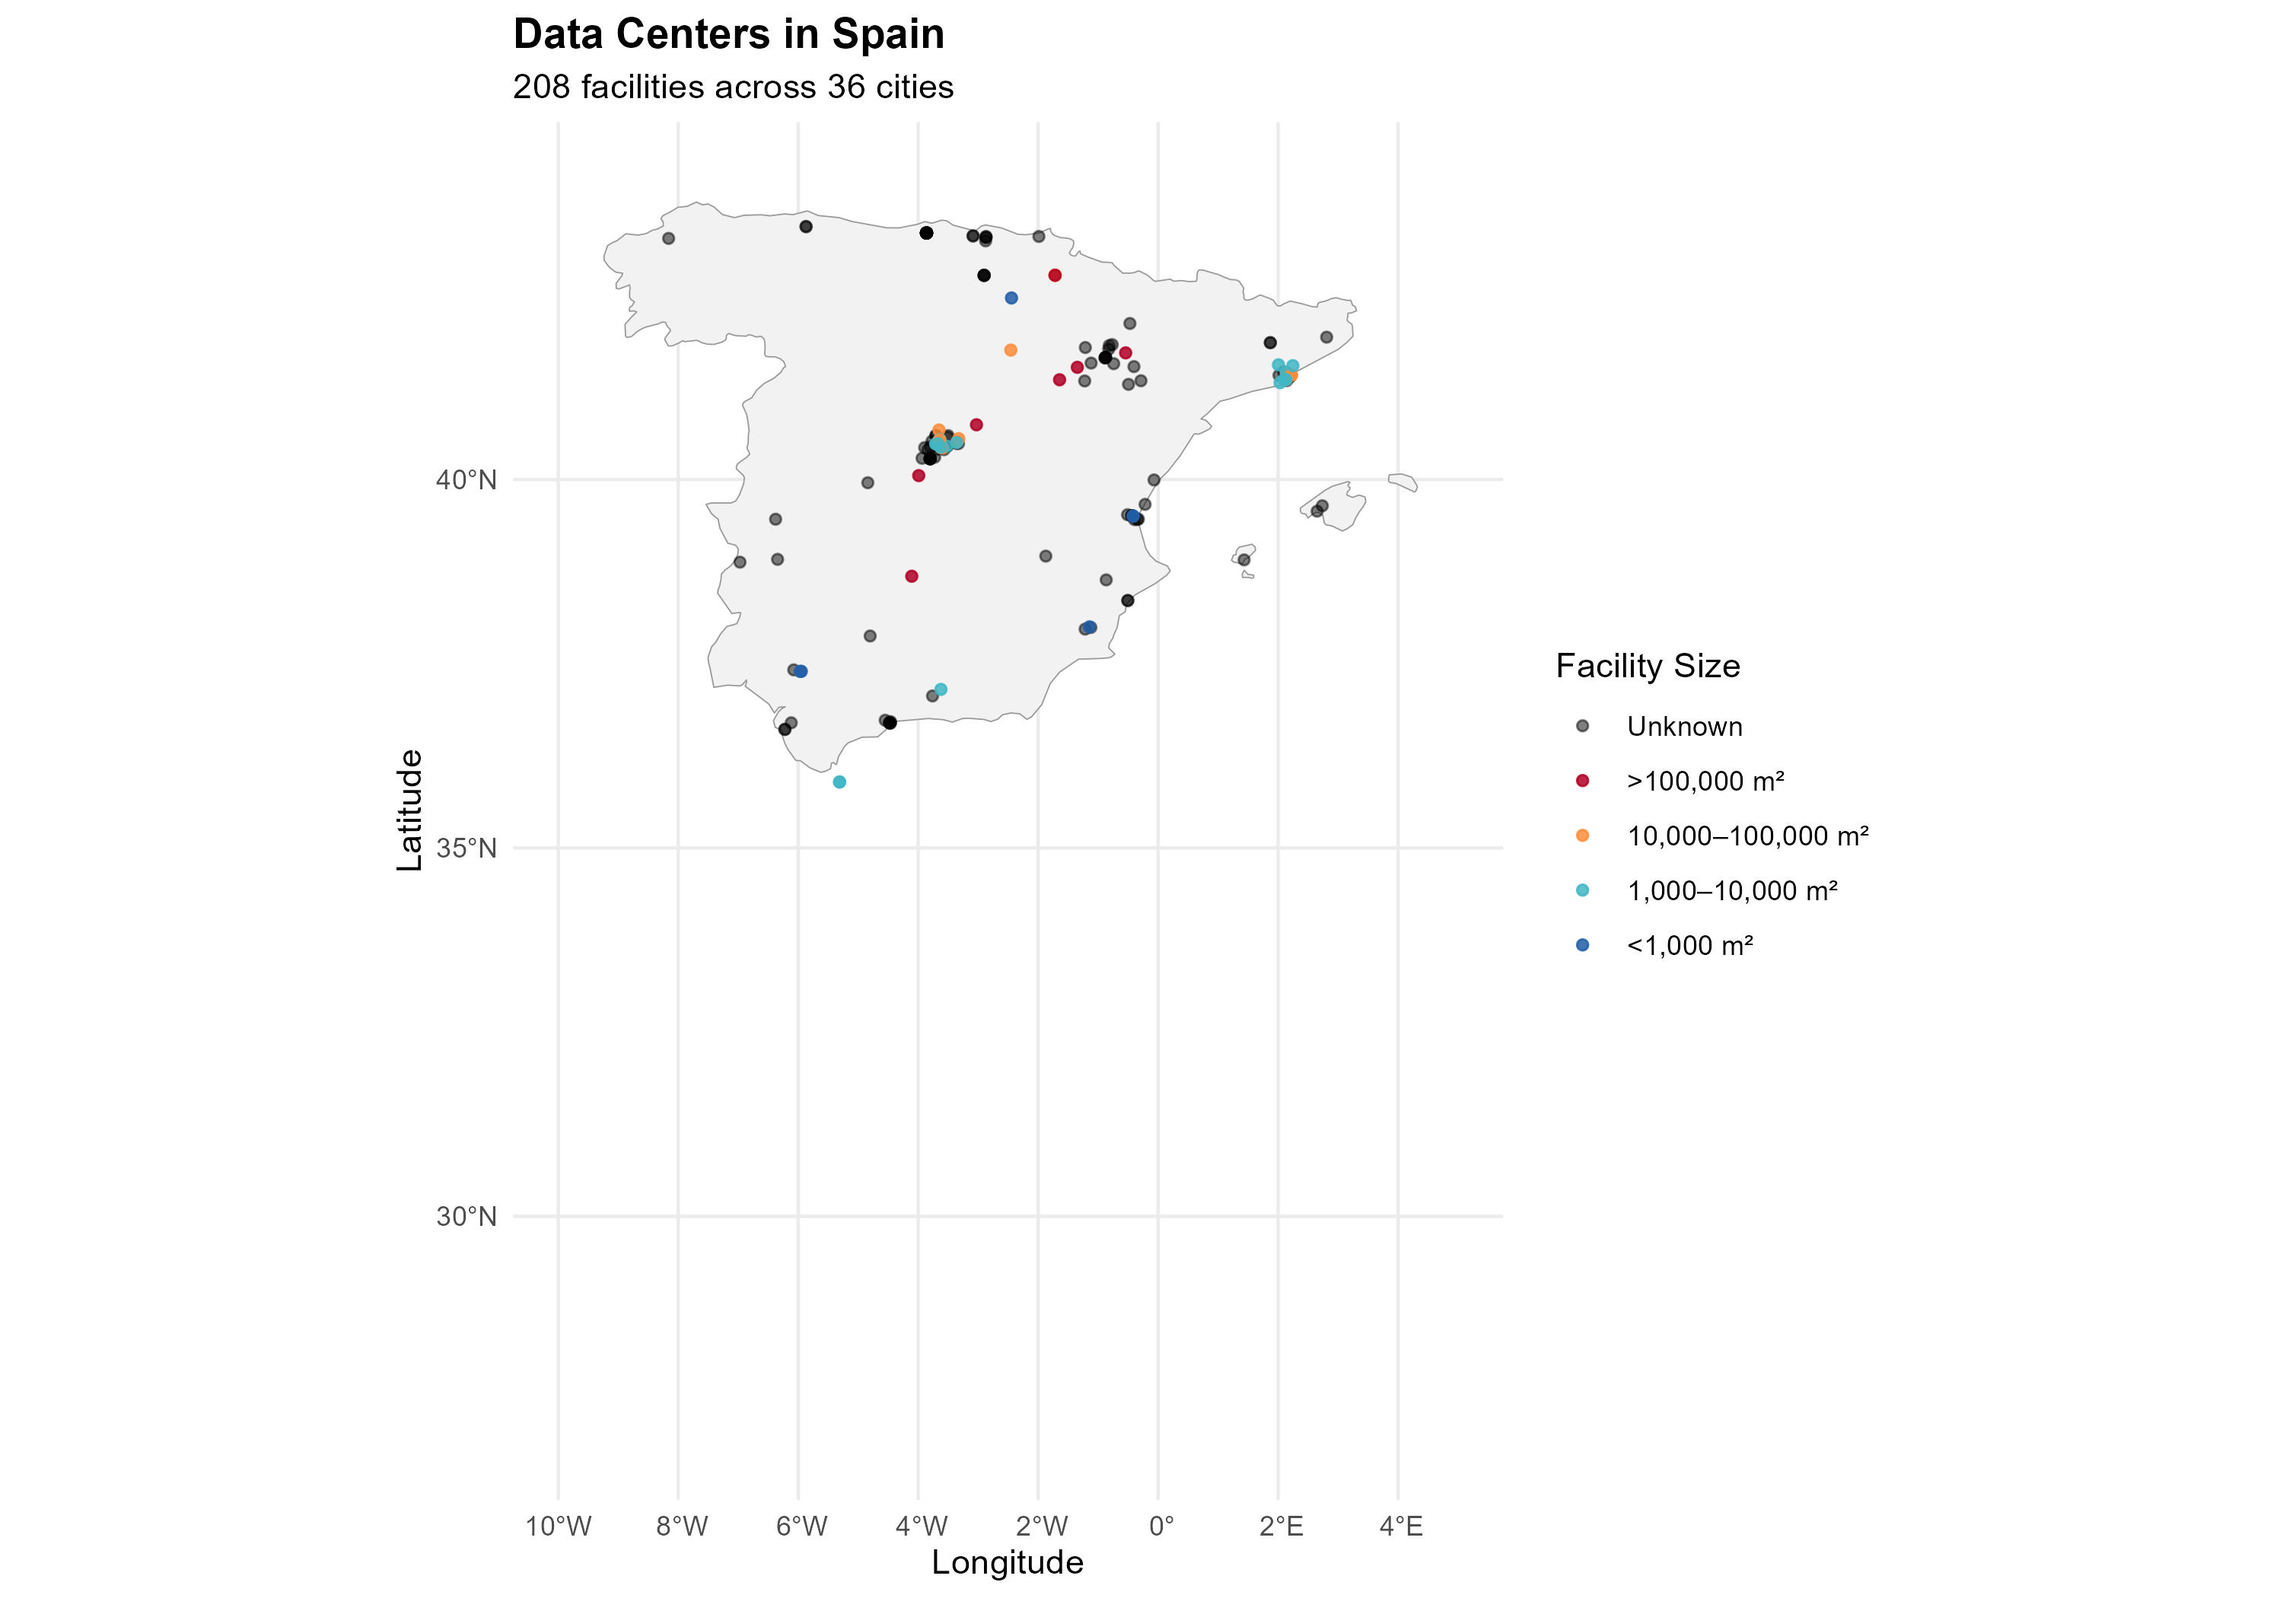
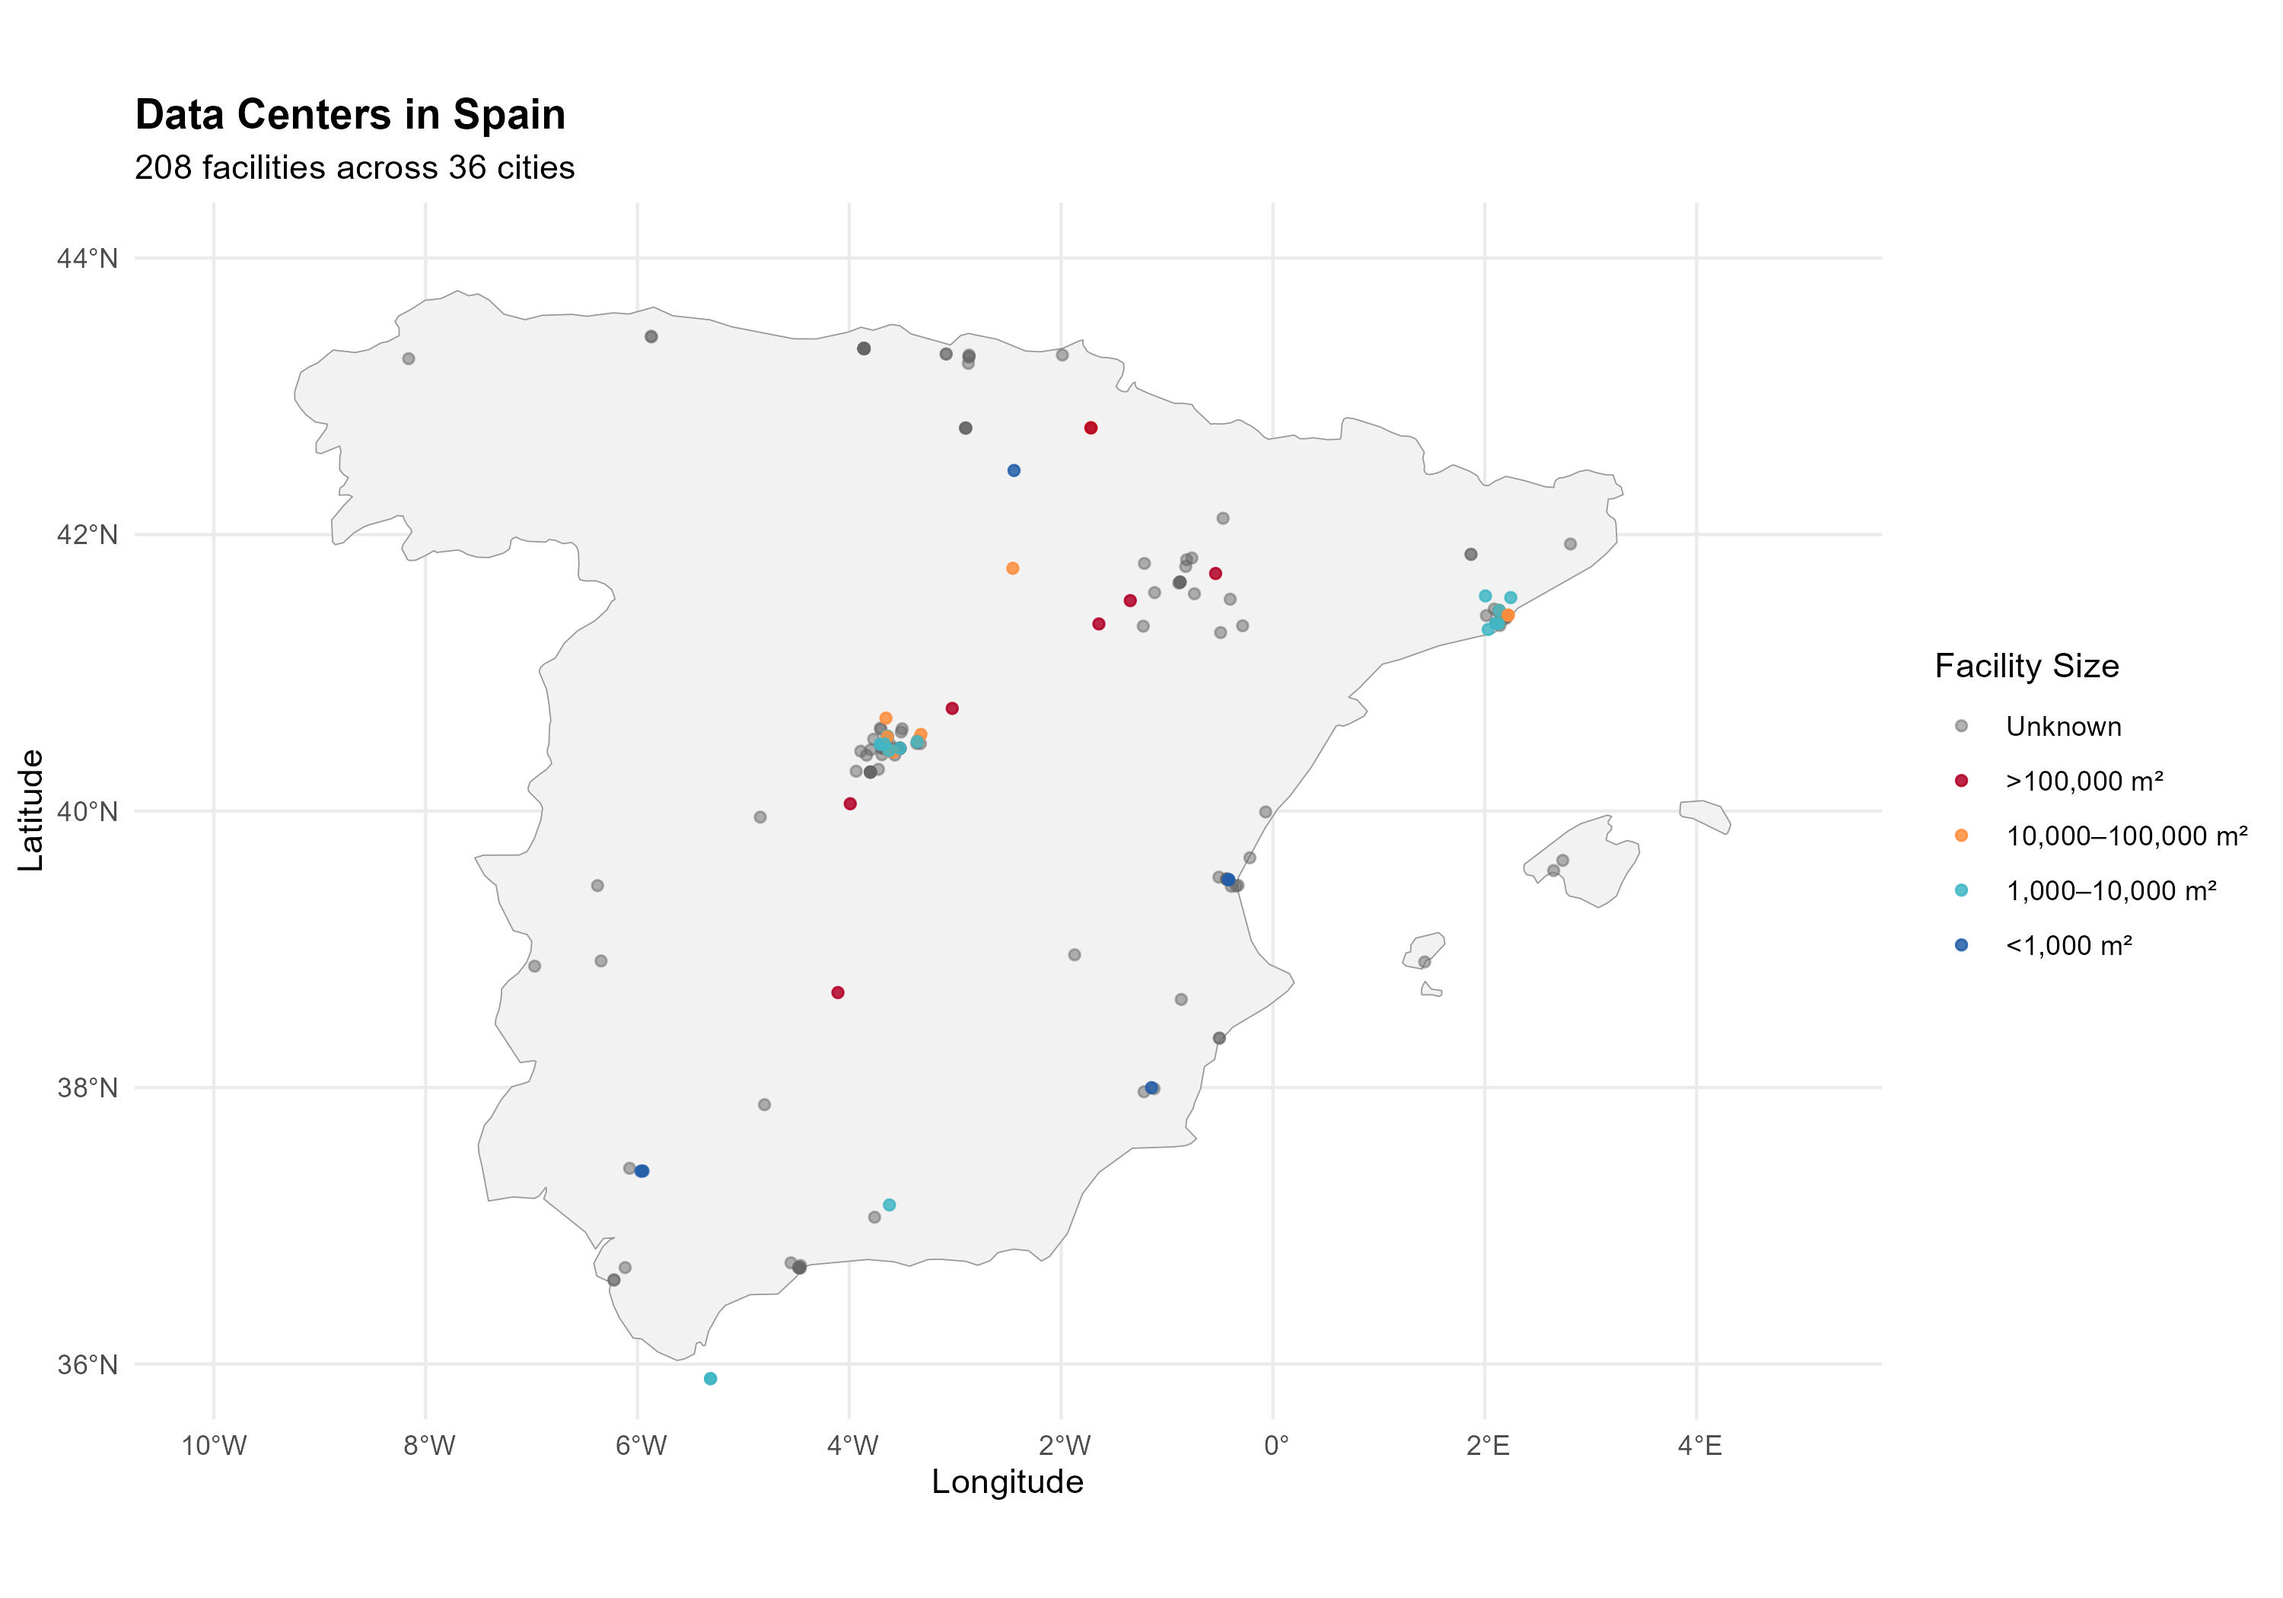
cleaned up r notebook code for data centers and created spain only provinces map

diff --git a/OLD_prism_datacenters.tex b/OLD_prism_datacenters.tex
@@ -1,0 +1,97 @@
+\documentclass[11pt]{article}
+\usepackage[margin=1in]{geometry}
+\usepackage{graphicx}
+\usepackage{hyperref}
+\usepackage{enumitem}
+\setlist{nosep}
+
+\title{OLD Data Centers in Spain: Mapping Existing Facilities and Context}
+\author{}
+\date{March 2026}
+
+\begin{document}
+\maketitle
+
+\section*{Overview}
+This note summarizes the work completed in the R notebook \texttt{DataCenters\_Current\_Map.rmd} and
+aligns it with the broader project context documented in \texttt{dataCenters.ipynb}. The core goal is
+to map existing data centers in Spain and situate them within the provincial geography used for the
+analysis of environmental and infrastructure stress at the NUTS3 (52 provinces) scale.
+
+\section*{Why This Matters (Project Context)}
+The broader research question in \texttt{dataCenters.ipynb} is whether predicted or likely data center
+development in Spain concentrates in provinces already under compound environmental stress
+(water scarcity, heat extremes, and land-use pressure). If high-suitability provinces coincide with
+high-stress provinces, new data center development risks intensifying already strained resources
+such as water for cooling, land footprint, and grid capacity. The provincial (NUTS3) scale is used
+because it is the finest spatial unit with consistent economic and environmental statistics.
+
+\section*{Data Sources and Scraping (from \texttt{dataCenters.ipynb})}
+\begin{itemize}
+  \item \textbf{Directory source:} \texttt{datacentermap.com/spain} is used as the main public directory
+  of data centers in Spain.
+  \item \textbf{Scraping approach:} the Spain index page is crawled to enumerate all region subpages,
+  then each region page is scraped to extract individual facility records (operator, city, region, and
+  available facility metadata).
+  \item \textbf{Geocoding:} facility locations are geocoded using Nominatim (OpenStreetMap) with rate
+  limiting (a 10-second delay between requests).
+  \item \textbf{Outputs:} the notebook writes facility records to \texttt{data/datacentermap\_spain.csv}
+  and \texttt{data/dc\_locations.geojson} (used downstream in the analysis).
+\end{itemize}
+
+\section*{Administrative Base Layer (52 Provinces)}
+The analysis adopts Spain's 52 provinces (NUTS3) as the standard spatial unit. The project notebook
+references GADM v4.1, Level 2 (Spain provinces) as the boundary source and notes that it is the most
+appropriate level for consistent provincial statistics.
+
+\begin{figure}[ht]
+  \centering
+  \fbox{\parbox{0.95\textwidth}{
+    \textbf{Map 1 placeholder: Spain, 52 provinces (NUTS3).}
+    \newline
+    Add the province boundary map here (GADM v4.1 Level 2 or GISCO NUTS3) so this figure displays the
+    full 52-province base layer before the data center overlay.
+  }}
+  \caption{Spain provinces (NUTS3, 52 total).}
+\end{figure}
+
+\section*{R Notebook Workflow (\texttt{DataCenters\_Current\_Map.rmd})}
+The R notebook performs the following steps:
+\begin{itemize}
+  \item Loads packages for spatial handling and visualization (\texttt{sf}, \texttt{ggplot2},
+  \texttt{rnaturalearth}, \texttt{giscoR}, \texttt{dplyr}).
+  \item Reads the cleaned data center list from \texttt{data/spain\_datacenters\_v2.xlsx}.
+  \item Filters out records without valid latitude/longitude.
+  \item Categorizes facilities by reported size (m\textsuperscript{2}) into five bins:
+  \texttt{>100,000}, \texttt{10,000--100,000}, \texttt{1,000--10,000}, \texttt{<1,000}, and
+  \texttt{Unknown}.
+  \item Generates a national map of Spain with data centers symbolized by size category and saves
+  the output to \texttt{outputs/data\_center\_map.jpg}.
+  \item Produces a focused map of the Comunidad de Madrid (NUTS3 ES300) and saves it to
+  \texttt{outputs/madrid\_dc\_map.jpg}.
+\end{itemize}
+
+\section*{Key Graphics}
+\begin{figure}[ht]
+  \centering
+  \includegraphics[width=\textwidth]{outputs/data_center_map.jpg}
+  \caption{Existing data centers in Spain (from \texttt{DataCenters\_Current\_Map.rmd}). Points are
+  colored by facility size category; facilities without size data are shown in black.}
+\end{figure}
+
+% Optional Madrid focus map (kept here for reference; remove if not needed)
+\begin{figure}[ht]
+  \centering
+  \includegraphics[width=\textwidth]{outputs/madrid_dc_map.jpg}
+  \caption{Comunidad de Madrid focus map showing the local concentration of data centers.}
+\end{figure}
+
+\section*{Notes for Final Assembly}
+\begin{itemize}
+  \item Replace the placeholder Map 1 with an exported province boundary map once the GADM/GISCO
+  layer is available locally.
+  \item If you want this document compiled in Overleaf, ensure the two image files from
+  \texttt{outputs/} are uploaded alongside the \texttt{.tex} file.
+\end{itemize}
+
+\end{document}
